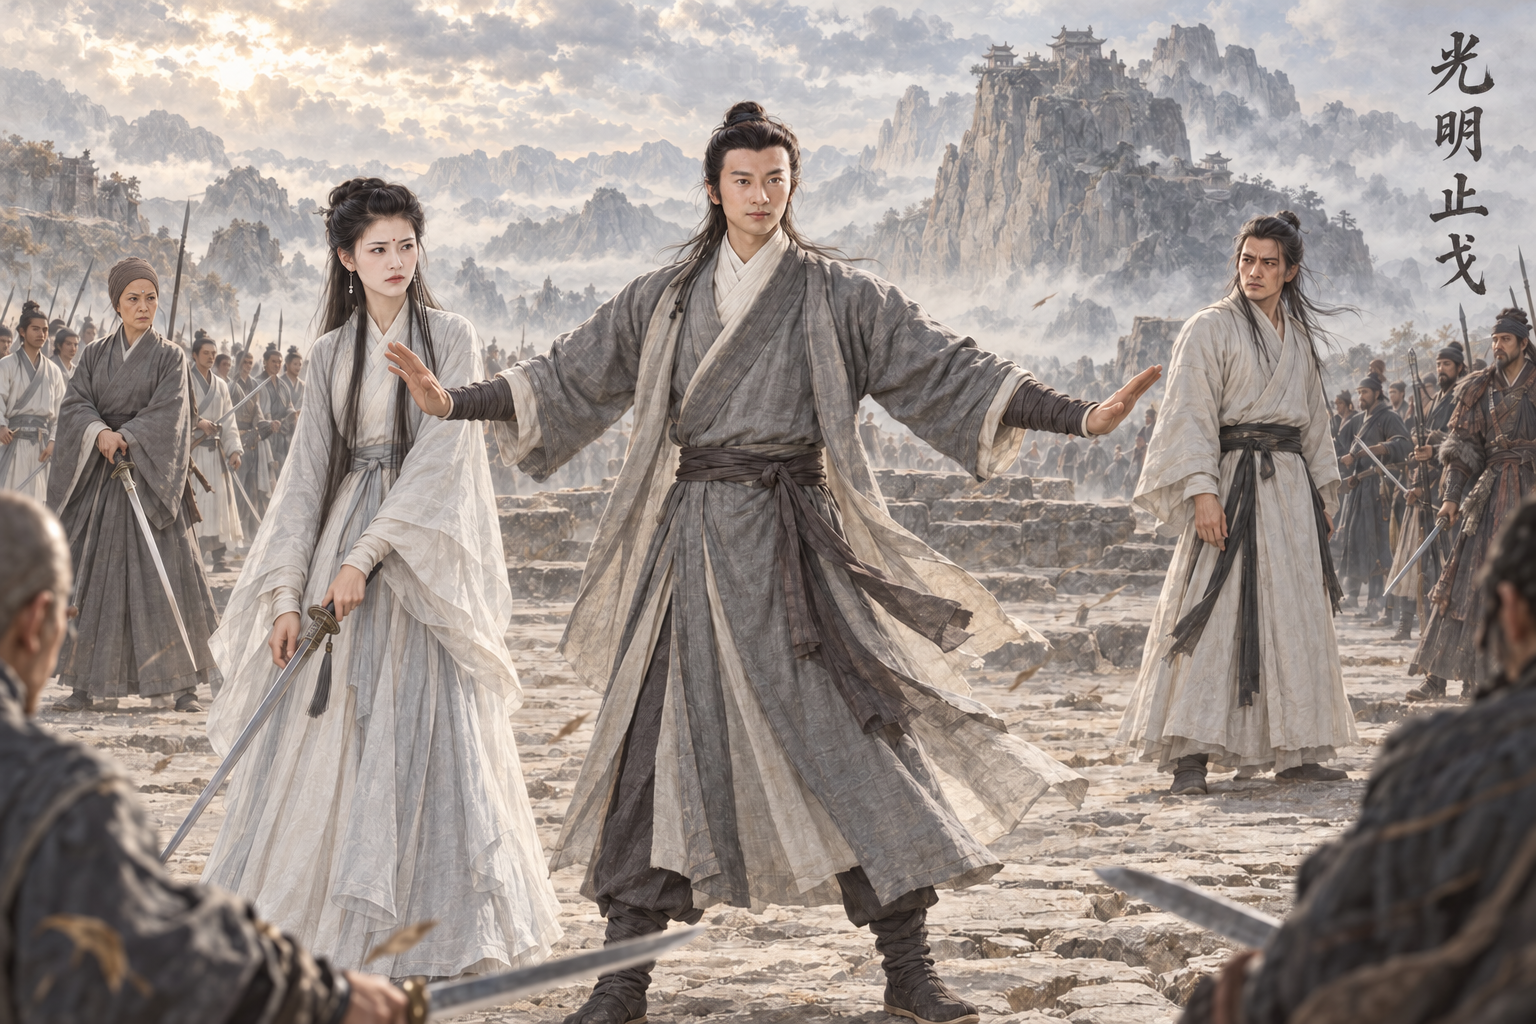
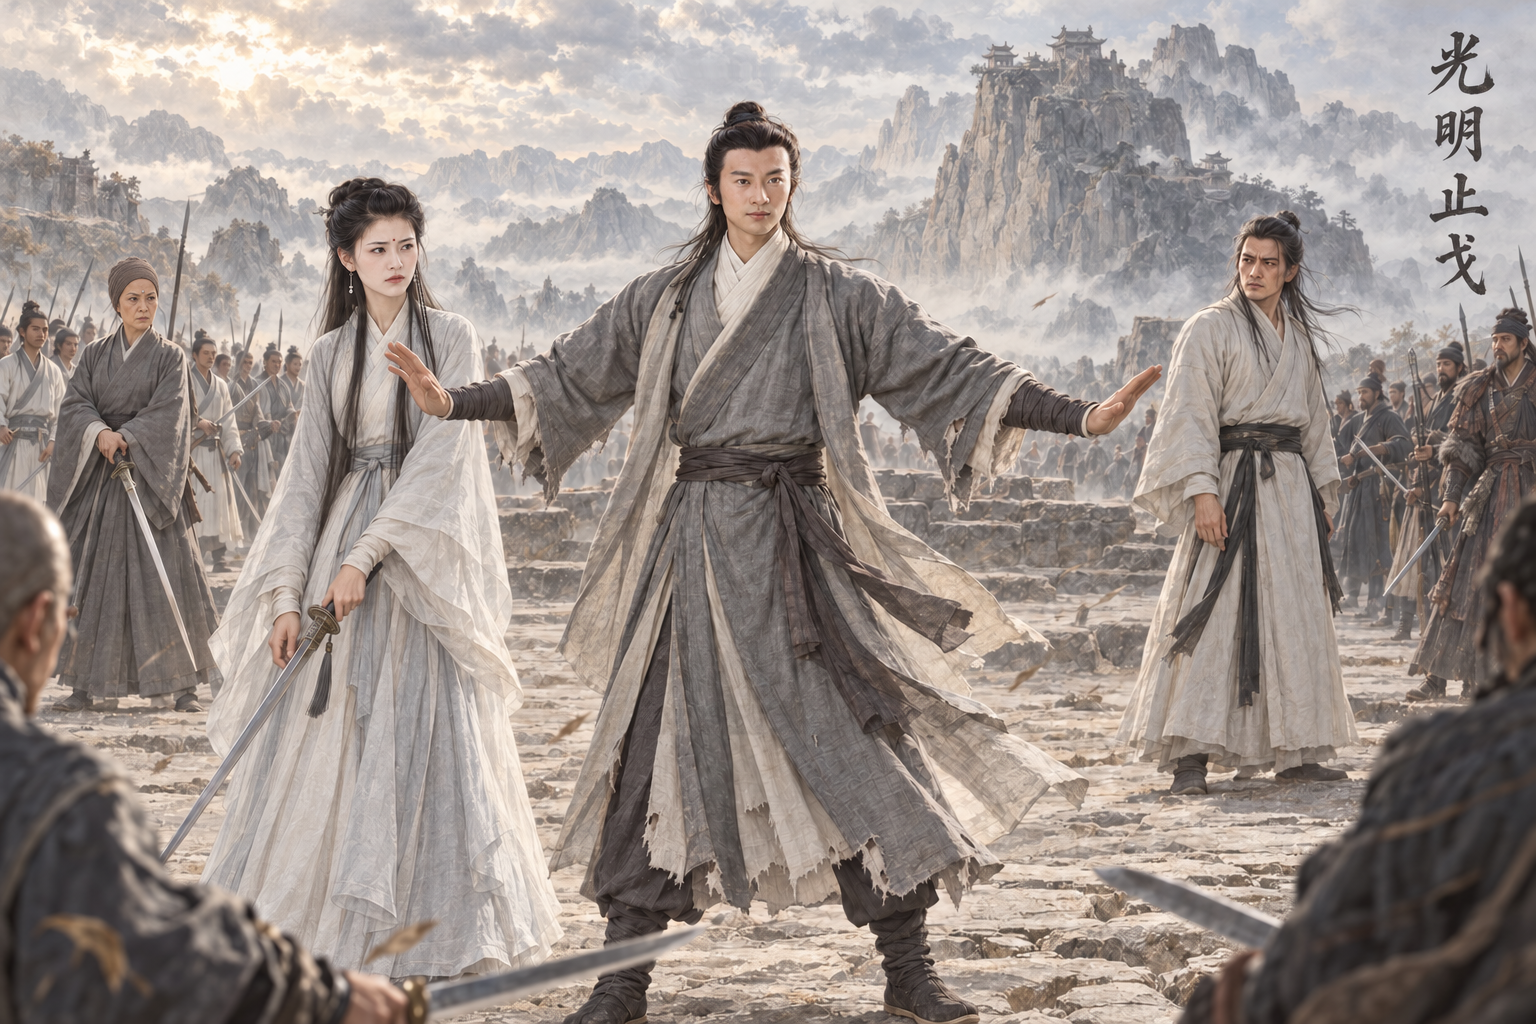
assets: AR-82 原著核对返修 光明正戈插图同步张无忌衣衫褴褛
原著摘句已同步提示词；已打开验图；蒙版外0像素变化。

Executed-By: Codex gpt-6.1-sol（AR-82）

diff --git a/assets/default/prompts/scenes/ch04-yitian/cg_ch04_guangming_peak.md b/assets/default/prompts/scenes/ch04-yitian/cg_ch04_guangming_peak.md
@@ -64,3 +64,7 @@ composite_job: cg_ch04_guangming_peak.resume3r2
 排除项：不要文字、题字、字幕、水印、签名、Logo、边框或分镜格；不要未指定的多余人物（明确要求的远景群像除外）；不要幼态、儿童体态、性化处理、裸露或恋物特写；不要血腥特写、断肢、尸体堆叠或伤口细节；不要真人、演员、影视剧照复刻；不要多余肢体、手指错误、脸部融合、身份串脸、时代错装、现代物件、动漫风、摄影棚感、3D 塑料感。
 ```
 
+## 原著依据
+
+- 《倚天屠龙记》二十 与子共穴相扶将：“衣衫褴褛的少年”；https://www.xuges.com/wuxia/jinyong/yttlj/146.htm
+- AR-82 返修约束（本节优先于历史提示词）：只在画心张无忌灰外衫及白内衣的肩袖和衣摆添少量清楚旧裂口与破边，保持原衣服颜色、款式褶皱及白衣少年身份，不露大片裸皮。脸、头发、体格、手、腰带和裤鞋，所有其他人、剑、背景和题字朱印全部不动。
